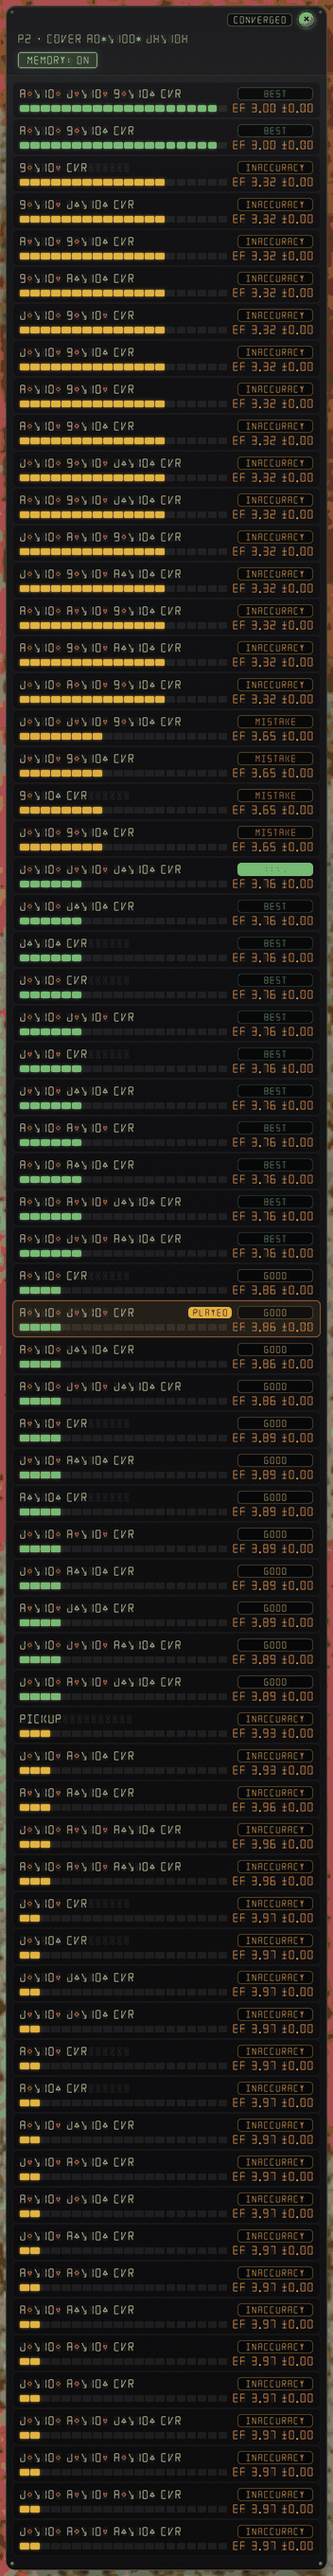
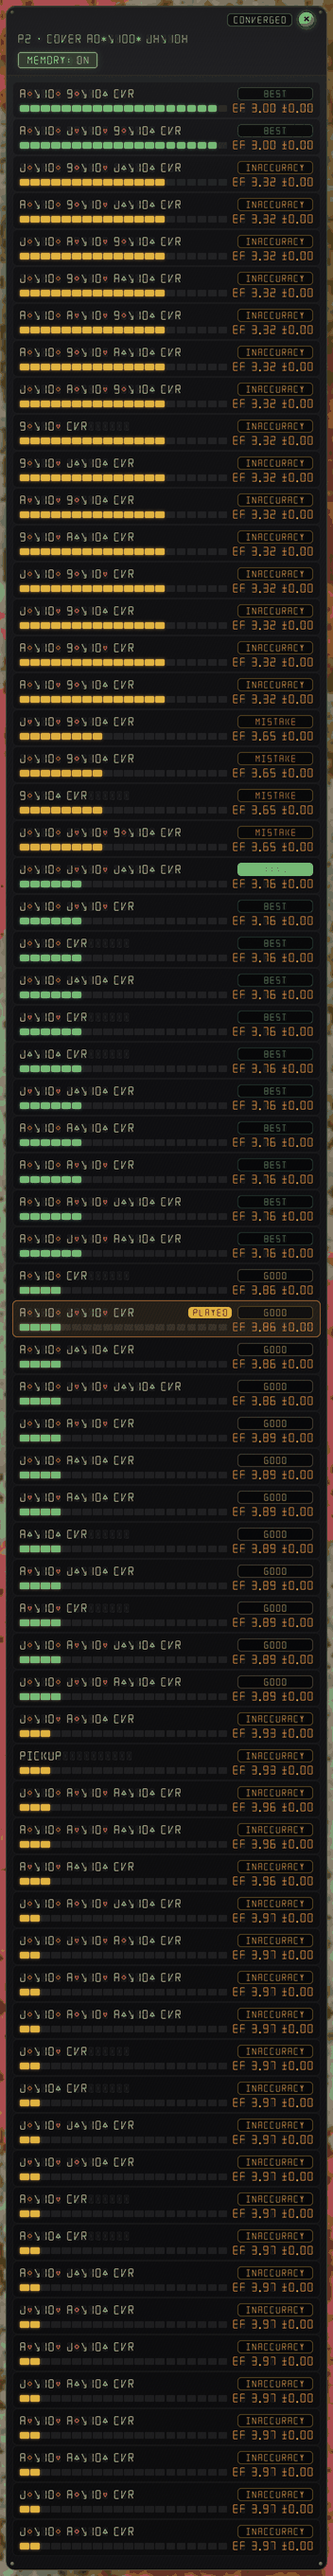
docs: the panel shows the noisy race (what it costs, the open threshold and convergence questions, the rule for unscored rows), and the step-51 screenshots in three states: main, noise-free ties (#459's first cut), noisy

diff --git a/foolish/docs/INFINITE_ORACLE_DESIGN.md b/foolish/docs/INFINITE_ORACLE_DESIGN.md
@@ -42,13 +42,16 @@ Where this document says "octogen" about the brain the Oracle runs, read fusion;
 
 ### What the numbers mean
 
-Every row's number (`EF x.xx +-y.yy`), its bar, its class chip and its storylines are the **noise-free race**: octogen's own race, the expected finish if every seat plays the rollout policy from here.
-Fusion's first race is that race exactly, world for world, so the meaning of every number the overlay printed before the switch is unchanged; `e2e/oracle_answer.test.ts` still matches the text path's fixture field for field, and `c/tests/oracle_answer_test.c` holds fusion's rows to octogen's at the same seed on every decision of nine games.
-The **Best** chip is **fusion's pick**: octogen's pick (the top row, the lowest expected finish) unless the noisy race's pick beats it, mean plus trump tax, by more than `FUSION_SHADOW` tenths of a standard error.
-The noisy race's mean rides beside each row (`OgAnswerRow.shadow_score`, Mode B's `sum_fp_shadow`) as that evidence and is not printed.
+**Since 2026-11-01 every number the panel shows is fusion's noisy race** (Alex's decision on PR #459): each row's `EF x.xx +-y.yy`, its bar, its class chip, the ties and the order are the noisy race's mean and standard error, the race fusion's pick comes from.
+Before that the rows showed the noise-free race and the Best chip was fusion's pick, so on a decision where fusion overruled octogen the Best row was not the lowest number on the panel, and the two could not be read together (step 51 of the replay in the next section: Best on a 3.76 that sat 0.76 below the lowest number shown).
+Now the number, the class and Best come from one race and cannot disagree.
+
+The **Best** chip is still **fusion's pick** and every row tied with it: octogen's pick (the lowest noise-free expected finish) unless the noisy race's pick beats it, mean plus trump tax, by more than `FUSION_SHADOW` tenths of a standard error.
+The noise-free race is not shown; it only names octogen's pick for fusion's rule.
+The storylines of the why panel (flag-gated, off) are still traced from the noise-free race only (`og_trace_begin` skips the shadow race), so they explain octogen's numbers, not the ones printed.
 Exact-endgame answers are untouched: the probe runs before either race and its verdicts are what the exact panel shows.
 
-Why the noise-free race and not the noisy one, measured on 664 decisions of 2-, 4- and 6-seat games at 400 worlds each, racing off, the same worlds for both:
+What the switch costs, measured before it on 664 decisions of 2-, 4- and 6-seat games at 400 worlds each, racing off, the same worlds for both:
 
 | Players | best-to-worst spread, noise-free | noisy | rows classed blunder, noise-free | noisy |
 | --- | --- | --- | --- | --- |
@@ -56,44 +59,44 @@ Why the noise-free race and not the noisy one, measured on 664 decisions of 2-, 
 | 4 | 0.448 | 0.350 | 28.7% | 19.9% |
 | 6 | 0.748 | 0.601 | 32.8% | 26.2% |
 
-The noise makes every finish more random, so it pulls every move toward the middle place by 20-33%, and the classes (the thresholds in `c/src/oracle_rank.c`, calibrated on octogen's numbers) would call a third of the blunders mistakes.
-And "the expected finish if three in ten of everybody's later decisions, yours included, are a random sensible move" is not what a reader takes `EF` to mean.
-The noisy race is fusion's robustness check on octogen's pick, which is exactly what the Best chip reports.
+The noise makes every finish more random, so it pulls every move toward the middle place by 20-33%, and the class thresholds (`c/src/oracle_rank.c`, calibrated on octogen's noise-free numbers) call about a third of the old blunders mistakes.
+The noisy numbers read as "the expected finish if three in ten of everybody's later decisions, yours included, are a random sensible move".
+Recalibrating the thresholds on the noisy race is open.
+The convergence check is also still the noise-free race's (`ORACLE_CONVERGE_MAX_SE`, `accumulator.ts converged`), and the noisy race runs on half the worlds (`ORACLE_SHADOW_W = 50`), so the `+-` printed at "Converged" is the noisy race's and can be larger than 0.005; holding convergence to the noisy error is open too.
 
-So Best can sit on a row whose number is not the lowest.
-That is the case the shadow selection exists for: the noisy race found, beyond its bar, that the move holds up better when play goes off the rollout policy's script.
-The lowest row then still shows the class chip `best` (it has the lowest expected finish), so the panel says both things that are true: this row has the lowest expected finish, and that one is fusion's pick.
-Where rows are twins (the same expected finish, which noise-free races produce in a third to a half of all decisions), they all read best, and the filled chip says which one fusion plays (next section).
+Rows the noisy race did not score: when it scored no row at all (one candidate, a proven win: a decision with no noisy race), the noise-free race is shown instead, since fusion is then octogen.
+Otherwise a row it did not score shows `-` for its number, no bar, no class and never Best, and sorts after every row that has a number.
 
 ### Ties, Best and the classes (2026-11-01)
 
 One C function owns the panel's verdicts, `og_rank` (`c/src/oracle_rank.c`, whose header comment states the whole rule), and both modes hand it the same per-row numbers through structgen's writer and read its answer back through the reader (`OgRankAsk`, `OgRankAnswer`, exported by `oracle.wasm` and `oracle-mt.wasm`).
-It returns the rows in display order, and for each row whether it reads Best, whether it is fusion's pick, its class, its bar and the error to print.
+It returns the rows in display order, and for each row the number shown (fusion's noisy race's expected finish) and its error, whether it reads Best, whether it is fusion's pick, its class and its bar.
 TypeScript only renders that answer.
 
 It used to be four TypeScript rules: a sort in each mode, `fusionBest`, and `oracleClassify`, with the class chips measured from the lowest number while the Best chip was fusion's pick.
 Two yardsticks on one panel produced the bug Alex found on prod: at step 51 of a 4-seat replay, fusion overruled octogen's 2.9975 for a 3.7569 whose ten twins all printed `EF 3.76 +-0.00`, and one of the eleven read BEST while the other ten (0.76 behind the lowest number) read BLUNDER, as did the played 3.86, which is 0.10 behind fusion's pick.
 
-The rule, Monte Carlo regime:
+The rule, Monte Carlo regime, every number below being the noisy race's:
 
-- **Tie.** Two rows tie when their means differ by no more than `max(0.0001, k * sqrt(se_a^2 + se_b^2))`, with `k = FUSION_SHADOW / 10`: the two standard errors fusion holds its own pick to.
+- **Tie.** Two rows tie when their numbers differ by no more than `max(0.0001, k * sqrt(se_a^2 + se_b^2))`, with `k = FUSION_SHADOW / 10`: the two standard errors fusion holds its own pick to.
   An error not measured yet (one batch) counts as 0, so before the run has an error only rows within 0.0001 tie.
-  At convergence (every printed error `+-0.00`, below 0.005) two rows tie when they are within about 0.014 places, so rows that print the same two decimals can still be apart when their errors are tight enough to say so.
 - **Best.** Every row that ties with fusion's pick reads Best.
   Fusion's pick is the one row marked `pick`, and its chip is drawn filled.
-- **Class.** A row tied with fusion's pick, or with octogen's pick (the lowest number), is `best`.
-  Any other row measures its gap to the nearest of those two numbers at or below it, then the thresholds: `< 0.05` excellent, `< 0.15` good, `< 0.35` inaccuracy, `< 0.7` mistake, else blunder.
-  When fusion agrees with octogen, as it does on most decisions, that is the gap to the best row.
-  When fusion overrules, the rows between the lowest number and fusion's group keep the lowest number's yardstick, and the rows below fusion's group measure from it.
-- **Order.** By mean, then the mean plus the trump-keep tax, then input order, except that the Best rows sit together as one block where their lowest mean puts it, fusion's pick first.
+  When fusion keeps octogen's pick, the noisy race's lowest row is within fusion's bar of it and so (up to the trump tax, which the bar counts and the tie does not) ties it: the Best group sits at the top of the list.
+- **Class.** A row tied with fusion's pick is `best`.
+  Any other row measures its gap to the Best group's lowest number (a row below it that does not tie is `best` too), then the thresholds: `< 0.05` excellent, `< 0.15` good, `< 0.35` inaccuracy, `< 0.7` mistake, else blunder.
+- **Order.** By number, then the number plus the trump-keep tax, then input order, except that the Best rows sit together as one block where their lowest number puts it, fusion's pick first.
+  Then the rows with no number shown, by noise-free mean, then the unsampled.
   The played move is never moved out of its place.
-- **Bar.** The X-ray pages' formula, `96 - 84 * (mean - lowest) / span`, the span floored at 0.4 and the width clamped to `[12, 100]`.
+- **Bar.** The X-ray pages' formula, `96 - 84 * (v - lowest) / span`, over the numbers shown, the span floored at 0.4 and the width clamped to `[12, 100]`.
+
+At step 51 the noisy race separates the eleven noise-free twins: fusion's pick shows 3.17 and is the lowest number, the next twin 3.23 (good), the played move 3.31 (good), and octogen's pick its noisy 3.48 (inaccuracy).
 
 Exact regime: by verdict (win, draw, unknown, none, loss, illegal), then by the verdict's value, larger first (`+-(1000 - depth)`, so the quickest win and the longest loss lead), then the mean, then input order; no Best and no classes.
 The TypeScript it replaced sorted by depth descending for every verdict, which put the slowest win first.
 
 The trump-keep tax is octogen's own default (`OG_TRUMP_KEEP_DEFAULT`, `c/src/octogen_strategy.h`), so the ranking and the bot read one number.
-Mode B's errors are the n-based proxy `1.2 / sqrt(n)`, computed by the kernel when the host passes `-1`.
+Mode B's errors are the n-based proxy `1.2 / sqrt(n)` over the noisy race's worlds, computed by the kernel when the host passes `-1`.
 `c/tests/oracle_rank_test.c` holds the rule on crafted rows, `e2e/oracle_fusion_best.test.ts` holds it through the shipped module, `e2e/oracle_mode_b.test.ts` holds the two modules to one answer for the same rows, and `e2e/oracle_why_flag.test.ts` renders a tied group.
 
 ### The rule over accumulated worlds
@@ -108,7 +111,7 @@ As the run sharpens the bar shrinks with the error, and it stops shrinking where
 ### The cost, and the budget split
 
 The noisy race costs more than the noise-free one (its rollouts run longer and draw the noise at every policy decision), and `c/FUSION.md` measures a fusion decision at 2.3-2.8x octogen's milliseconds.
-The Oracle runs its noisy race on half the worlds of its noise-free race (`ORACLE_SHADOW_W = 50`, `OgKnobs.shadow_w`, fusion's `FUSION_SHADOW_W`), because the noisy race decides only the Best chip and none of the numbers the rows print.
+The Oracle runs its noisy race on half the worlds of its noise-free race (`ORACLE_SHADOW_W = 50`, `OgKnobs.shadow_w`, fusion's `FUSION_SHADOW_W`), a budget set when the noisy race decided only the Best chip; since it is also what the rows print, its numbers carry about 1.4x the noise-free race's error.
 The error of its means grows by about 1.4x for it, which only raises the bar the noisy race has to clear.
 Mode A's batches stay inside the same window they always aimed at, because `oracleWorker.ts` already sizes each batch to 25-80 ms; what grows is the time to convergence.
 
